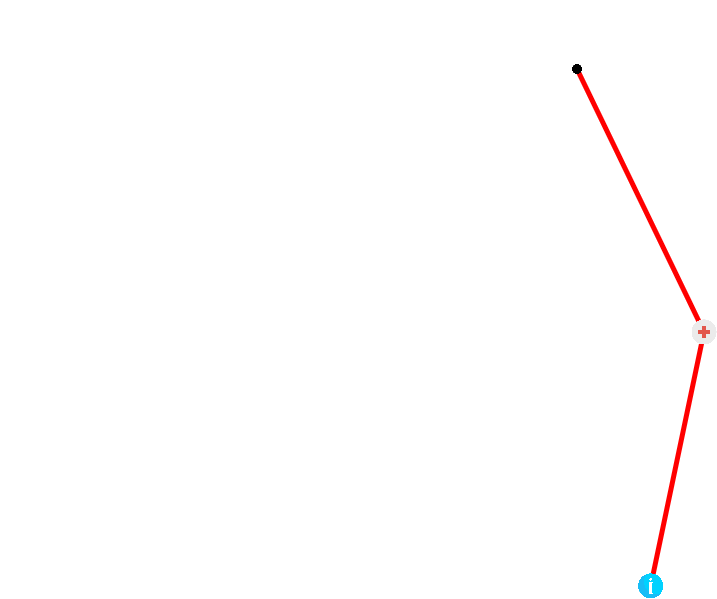
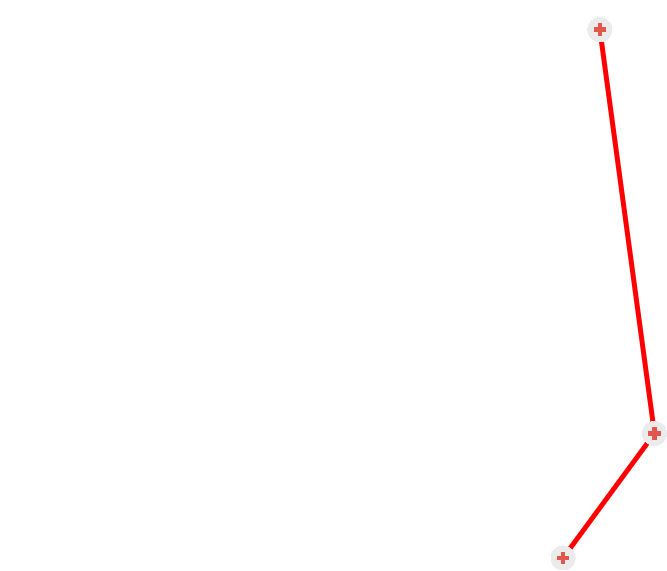
Working on changing all references to anchorpane to listofanchor pane

Changed region(s): [[0.8396, 0.0298, 0.9895, 1.0], [0.7796, 0.0893, 0.8396, 0.2084], [0.8396, 0.2084, 0.8696, 0.268]]

diff --git a/src/Domain/Navigation/Guidance.java b/src/Domain/Navigation/Guidance.java
@@ -72,10 +72,18 @@ public class Guidance extends Path {
         MapNode fromNode = new MapNode();
         MapNode toNode = new MapNode();
 
+        LinkedList<MapNode> listNodes = new LinkedList<>();
+        LinkedList<NodeEdge> listEdges = new LinkedList<>();
+
+
+
         int intersectionsPassed = 0;
 
         //Add the first node to the textual directions
         tempTextDirections.add("Start at the Kiosk. (Node " + pathNodes.get(0).getNodeID() + ")");
+
+        //Add first node to first step
+        listNodes.add(pathNodes.get(0));
 
         for (int i = 0; i < this.pathNodes.size() - 1; i++) {
 
@@ -121,6 +129,8 @@ public class Guidance extends Path {
                     System.out.println("fromNode has size of edges: " + fromNode.getEdges().size());
                     intersectionsPassed++;
                 }
+                listNodes.add(toNode);
+                listEdges.add(pathEdges.get(i));
                 intersectionsPassed++;
             } else if (!directionChangeString.equals("Straight") && (!directionChangeString.equals("up")) && (!directionChangeString.equals("down"))) {
                 if(intersectionsPassed  == 0) {
@@ -146,7 +156,8 @@ public class Guidance extends Path {
 
                     }
                 }
-
+                listNodes.add(toNode);
+                listEdges.add(pathEdges.get(i));
                 intersectionsPassed = 0;
             } else if (directionChangeString.equals("up") || directionChangeString.equals("down")) {
                 if(intersectionsPassed == 0){
@@ -172,8 +183,13 @@ public class Guidance extends Path {
 
                     }
                 }
+
                 this.textDirections.addLast(new DirectionStep(fromNode.getMyFloor()));
                 this.textDirections.getLast().setDirections(tempTextDirections);
+                this.textDirections.getLast().setEdgesInStep(listEdges);
+                this.textDirections.getLast().setNodesInStep(listNodes);
+                listEdges.clear();
+                listNodes.clear();
                 tempTextDirections.clear();
                 intersectionsPassed = 0;
             }
@@ -208,9 +224,11 @@ public class Guidance extends Path {
         System.out.println("Printing Textual Directions");
         System.out.println("");
         for (DirectionStep step: textDirections) {
+            System.out.println("Printing a step");
             for(String s : step.getDirections()) {
                 System.out.println(s);
             }
+            System.out.println("Done printing a step!");
         }
     }
 
@@ -416,12 +434,12 @@ public class Guidance extends Path {
         return textDirections;
     }
 
-    public void overlayOnMap() {
+    public void overlayOnMap(Floor f) {
 
         try {
 // load source images
             BufferedImage image = ImageIO.read(new File("emptyImage.png"));
-            BufferedImage overlay = ImageIO.read(new File("directionPath.png"));
+            BufferedImage overlay = ImageIO.read(new File("directionPath" + f.getFloorNumber() + ".png"));
 
 // create the new image, canvas size is the max. of both image sizes
             int w = Math.max(image.getWidth(), overlay.getWidth());
@@ -434,9 +452,10 @@ public class Guidance extends Path {
             g.drawImage(overlay, 0, 0, null);
 
 // Save as new image
-            ImageIO.write(combined, "PNG", new File("combined.png"));
+            ImageIO.write(combined, "PNG", new File("combined" + f.getFloorNumber() + ".png"));
         } catch (Exception e) {
             System.out.println("Threw another exception over here.");
+            e.printStackTrace();
         }
     }
 
@@ -470,87 +489,88 @@ public class Guidance extends Path {
         return Toolkit.getDefaultToolkit().createImage(ip);
     }
 
-    public AnchorPane createDirectionPane() {
+    public LinkedList<AnchorPane> createDirectionPane() {
+        LinkedList<AnchorPane> directionPanes = new LinkedList<>();
         AnchorPane directionPane = new AnchorPane();
 
-        //and then set all the existing nodes up
-        HashSet<NodeEdge> collectedEdges = new HashSet<NodeEdge>();
+        for(DirectionStep step: this.textDirections) {
+            directionPane = new AnchorPane();
+            //and then set all the existing nodes up
+            HashSet<NodeEdge> collectedEdges = new HashSet<NodeEdge>();
 
-        for(MapNode n : pathNodes)
-        {
-            for(NodeEdge edge: n.getEdges())
-            {
-                if(!collectedEdges.contains(edge)) collectedEdges.add(edge);
+            if (step.nodesInStep != null) {
+                for (MapNode n : step.nodesInStep) {
+                    for (NodeEdge edge : n.getEdges()) {
+                        if (!collectedEdges.contains(edge)) collectedEdges.add(edge);
+                    }
+
+                    if (!directionPane.getChildren().contains(n.getNodeToDisplay())) {
+                        directionPane.getChildren().add(n.getNodeToDisplay());
+                    }
+
+
+                    System.out.println("Adding node at X:" + n.getPosX() + "Y: " + n.getPosY());
+
+                    n.getNodeToDisplay().relocate(n.getPosX() * xNodeScale * 1.27, 1.27 * n.getPosY() * yNodeScale);
+                    n.getNodeToDisplay().setOnMouseClicked(null);
+                    n.getNodeToDisplay().setOnMouseEntered(null);
+                    n.getNodeToDisplay().setOnMouseDragged(null);
+
+                }
             }
 
-            if(!directionPane.getChildren().contains(n.getNodeToDisplay()))
-            {
-                directionPane.getChildren().add(n.getNodeToDisplay());
+            for (NodeEdge edge : collectedEdges) {
+
+                if (!directionPane.getChildren().contains(edge.getEdgeLine())) {
+                    directionPane.getChildren().add(edge.getEdgeLine());
+                }
+
+                MapNode source = edge.getSource();
+                MapNode target = edge.getTarget();
+
+                //@TODO BUG WITH SOURCE DATA, I SHOULDNT HAVE TO DO THIS
+
+                if (!directionPane.getChildren().contains(source.getNodeToDisplay())) {
+
+                    directionPane.getChildren().add(source.getNodeToDisplay());
+
+                    source.getNodeToDisplay().relocate(source.getPosX() * 2 * xNodeScale, source.getPosY() * 2 * yNodeScale);
+                }
+
+                if (!directionPane.getChildren().contains(target.getNodeToDisplay())) {
+                    directionPane.getChildren().add(target.getNodeToDisplay());
+                    target.getNodeToDisplay().relocate(target.getPosX() * 2 * xNodeScale, target.getPosY() * 2 * yNodeScale);
+                }
+
+                edge.updatePosViaNode(source);
+                edge.updatePosViaNode(target);
+
+                edge.setSource(source);
+                edge.setTarget(target);
+
+                source.toFront();
+                target.toFront();
+
+                edge.getEdgeLine().setOnMouseEntered(null);
+                edge.getEdgeLine().setOnMouseClicked(null);
+
             }
-
-
-            System.out.println("Adding node at X:" + n.getPosX() + "Y: " + n.getPosY());
-
-            n.getNodeToDisplay().relocate(n.getPosX()*xNodeScale*1.27, 1.27*n.getPosY()*yNodeScale);
-            n.getNodeToDisplay().setOnMouseClicked(null);
-            n.getNodeToDisplay().setOnMouseEntered(null);
-            n.getNodeToDisplay().setOnMouseDragged(null);
-
+            directionPanes.add(directionPane);
         }
 
-        for(NodeEdge edge : collectedEdges)
-        {
-
-            if(!directionPane.getChildren().contains(edge.getEdgeLine()))
-            {
-                directionPane.getChildren().add(edge.getEdgeLine());
-            }
-
-            MapNode source = edge.getSource();
-            MapNode target = edge.getTarget();
-
-            //@TODO BUG WITH SOURCE DATA, I SHOULDNT HAVE TO DO THIS
-
-            if(!directionPane.getChildren().contains(source.getNodeToDisplay()))
-            {
-
-                directionPane.getChildren().add(source.getNodeToDisplay());
-
-                source.getNodeToDisplay().relocate(source.getPosX() * 2*xNodeScale, source.getPosY() * 2* yNodeScale);
-            }
-
-            if(!directionPane.getChildren().contains(target.getNodeToDisplay()))
-            {
-                directionPane.getChildren().add(target.getNodeToDisplay());
-                target.getNodeToDisplay().relocate(target.getPosX() * 2*xNodeScale, target.getPosY() * 2*yNodeScale);
-            }
-
-            edge.updatePosViaNode(source);
-            edge.updatePosViaNode(target);
-
-            edge.setSource(source);
-            edge.setTarget(target);
-
-            source.toFront();
-            target.toFront();
-
-            edge.getEdgeLine().setOnMouseEntered(null);
-            edge.getEdgeLine().setOnMouseClicked(null);
-
-        }
 
 
-        return directionPane;
+        return directionPanes;
     }
 
-    public void savePathImage(Node aNode) {
+    public void savePathImage(Node aNode, int floorNum) {
         WritableImage image = aNode.snapshot(new SnapshotParameters(), null);
 
         // TODO: probably use a file chooser here
         File file;
 
         try {
-            ImageIO.write(SwingFXUtils.fromFXImage(image, null), "png", new File("directionPath1.png"));
+            ImageIO.write(SwingFXUtils.fromFXImage(image, null), "png", new File("directionPathOpaque" + floorNum + ".png"));
         } catch (IOException e) {
             // TODO: handle exception here
             System.out.println("EGADS!  We have an exception!");
@@ -558,7 +578,7 @@ public class Guidance extends Path {
 
         BufferedImage img = null;
         try {
-            img = ImageIO.read(new File("directionPath1.png"));
+            img = ImageIO.read(new File("directionPathOpaque" + floorNum + ".png"));
         } catch (IOException e) {
             System.out.println("Something bad");
         }
@@ -575,7 +595,7 @@ public class Guidance extends Path {
         g2.dispose();
 
 
-        file = new File("directionPath.png");
+        file = new File("directionPath" + floorNum + ".png");
         try {
             ImageIO.write(transImageBuff, "png", file);  // ignore returned boolean
         } catch(IOException e) {
@@ -587,11 +607,12 @@ public class Guidance extends Path {
 
     public boolean sendEmailGuidance(String address) {
 
-        AnchorPane newDirectionPane = this.createDirectionPane();
+        LinkedList<AnchorPane> newDirectionPanes = this.createDirectionPane();
 
-        savePathImage(newDirectionPane);
-
-        overlayOnMap();
+        for (int i = 0; i < newDirectionPanes.size(); i++) {
+            savePathImage(newDirectionPanes.get(i), textDirections.get(i).floorOfTheseDirections.getFloorNumber());
+            overlayOnMap(textDirections.get(i).floorOfTheseDirections);
+        }
 
         String subjectLine;
         String directionLine = "<H2>You have chosen to navigate from " + pathNodes.get(0).getNodeID() + " to " + pathNodes.get(pathNodes.size()-1).getNodeID() + ".</H2>" + "<H3>";
@@ -614,18 +635,5 @@ public class Guidance extends Path {
             System.out.println("Threw an exception: " + e);
             return false;
         }
-    }
-
-    public void saveMapImage(MapModel model) {
-        File file;
-        Image backgroundImage = new Image("/floor3.png", true);
-        /*
-        BufferedImage bImage = SwingFXUtils.fromFXImage(backgroundImage, null);
-        file = new File("tempTest.png");
-        try {
-            ImageIO.write(bImage, "png", file);
-        } catch (Exception e) {
-            System.out.println("Another exception thrown");
-        } */
     }
 }

diff --git a/src/Domain/Navigation/DirectionStep.java b/src/Domain/Navigation/DirectionStep.java
@@ -1,6 +1,8 @@
 package Domain.Navigation;
 
 import Domain.Map.Floor;
+import Domain.Map.MapNode;
+import Domain.Map.NodeEdge;
 
 import java.util.LinkedList;
 
@@ -10,10 +12,19 @@ import java.util.LinkedList;
 public class DirectionStep {
     Floor floorOfTheseDirections;
     LinkedList<String> directionsForThisFloor;
+    LinkedList<MapNode> nodesInStep;
+    LinkedList<NodeEdge> edgesInStep;
 
     public DirectionStep(Floor floor){
         floorOfTheseDirections = floor;
         directionsForThisFloor = new LinkedList<String>();
+    }
+
+    public DirectionStep(Floor floor, LinkedList<MapNode> nodesInStep, LinkedList<NodeEdge> edgesInStep) {
+        floorOfTheseDirections = floor;
+        directionsForThisFloor = new LinkedList<>();
+        this.nodesInStep = nodesInStep;
+        this.edgesInStep = edgesInStep;
     }
 
     public void addDirections(String newDirection){
@@ -25,6 +36,23 @@ public class DirectionStep {
         for(String s : directions){
             this.directionsForThisFloor.add(s);
         }
+    }
+
+    public void setNodesInStep(LinkedList<MapNode> listOfMapNodes) {
+        this.nodesInStep = listOfMapNodes;
+    }
+
+    public void setEdgesInStep(LinkedList<NodeEdge> listOfNodeEdges) {
+        this.edgesInStep = listOfNodeEdges;
+    }
+
+
+    public void addNode(MapNode n) {
+        nodesInStep.addLast(n);
+    }
+
+    public void addEdge(NodeEdge e) {
+        edgesInStep.addLast(e);
     }
 
     public LinkedList<String> getDirections(){

diff --git a/src/test/java/PathFindingTest.java b/src/test/java/PathFindingTest.java
@@ -226,5 +226,5 @@ public class PathFindingTest extends TestCase{
             fail("Threw exception");
         }
     }
-    
+
 }
